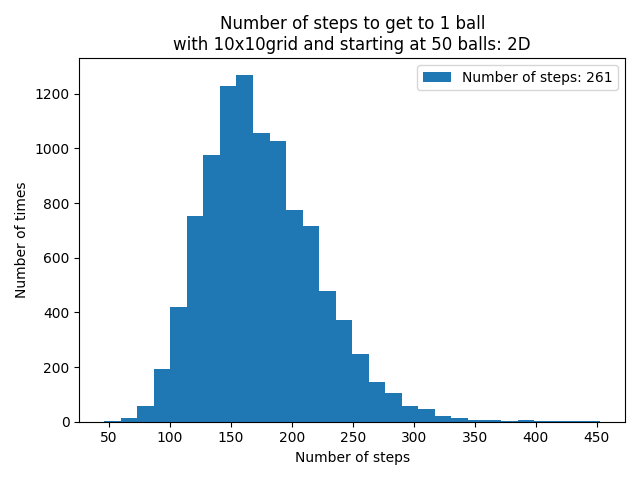
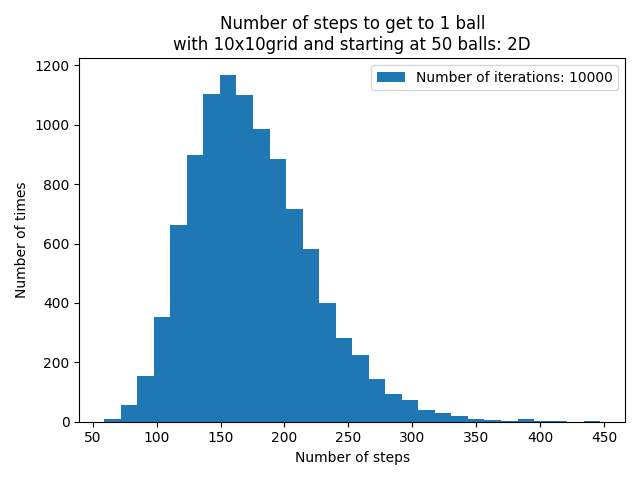
stuff

diff --git a/random-walker-1D.py b/random-walker-1D.py
@@ -174,11 +174,11 @@ for n in tqdm(range(numberofsteps)):
     plot_number_of_steps.append(number_of_steps)
 
 
-plt.hist(plot_number_of_steps, bins=30,label="Number of steps: "+str(number_of_steps))
+plt.hist(plot_number_of_steps, bins=30,label="Number of iterations: "+str(numberofsteps))
 plt.legend()
 plt.xlabel('Number of steps')
 plt.ylabel('Number of times')
-plt.title('Number of steps to get to 1 ball\nwith {} line and starting at {} balls: 1D'.format(size,size,number_of_balls))
+plt.title('Number of steps to get to 1 ball\nwith {} line and starting at {} balls: 1D'.format(size,number_of_balls))
 #plt.show()
 plt.tight_layout()
 plt.savefig('plots/random-walker-2D-{}-{}.png'.format(size,number_of_balls))

diff --git a/random-walker-2D.py b/random-walker-2D.py
@@ -271,7 +271,7 @@ for n in tqdm(range(numberofsteps)):
     resulting_points,number_of_steps,what_happened=run_this_code(where_points)
     plot_number_of_steps.append(number_of_steps)
 
-plt.hist(plot_number_of_steps, bins=30,label="Number of steps: "+str(number_of_steps))
+plt.hist(plot_number_of_steps, bins=30,label="Number of iterations: "+str(numberofsteps))
 plt.legend()
 plt.xlabel('Number of steps')
 plt.ylabel('Number of times')

diff --git a/tempCodeRunnerFile.py b/tempCodeRunnerFile.py
@@ -1,0 +1,1 @@
+plt.hist(plot_number_of_steps, bins=30,label="Number of iterations: "+str(numberofsteps))
